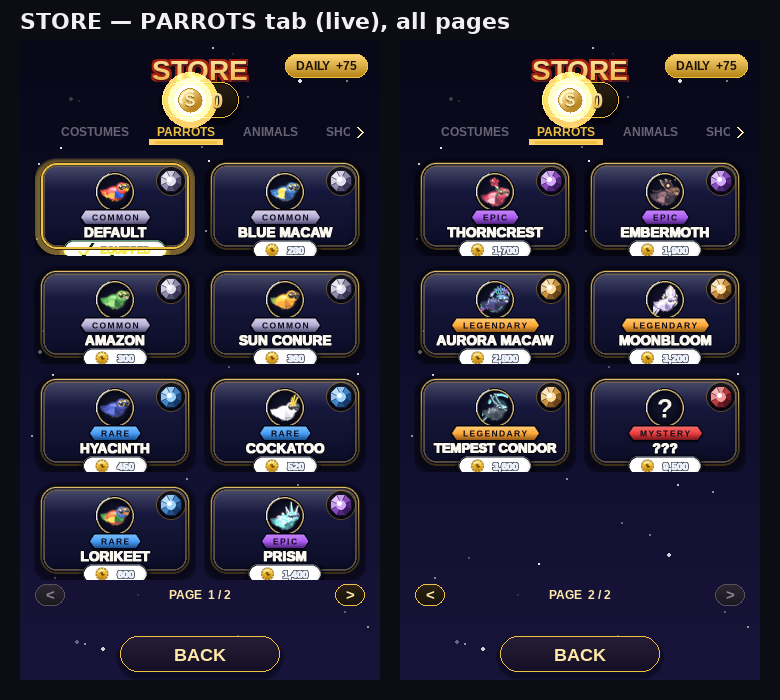
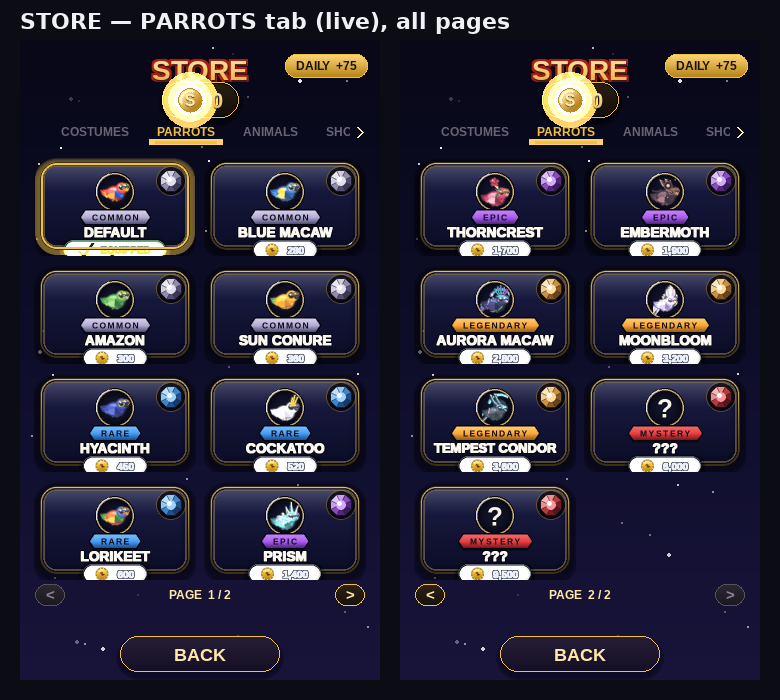
Integrate BINKY into store as a secret parrot skin
Ships the chosen baby-parrot design (design_5, SHIP-READY through the design
loop incl. the diaper add-on) into the live store:
- skin_binky / "BINKY" — secret tier, 6000, masked ??? until bought
- Powder-blue cartoon-baby Pip: pink punched-hole pacifier hero, big-baby
  eye-domes under the aviators, cream bib, chunky cream diaper, spit-curl

Builder ported self-contained into store_skins.py (helpers namespaced _bb_),
registered in BUILDERS; catalog entry placed in the PARROTS secret band. All
61 tests green; renders through the live parrot.get_skin_frame path. Store
figure regenerated — page 2 now shows BINKY + CHROME both masked as MYSTERY.

Claude-Session: https://claude.ai/code/session_01N1LM2Bgn9T6hStkWEbBYjz

Changed region(s): [[0.5231, 0.69, 0.7385, 0.84]]

diff --git a/game/store_skins.py b/game/store_skins.py
@@ -2703,6 +2703,161 @@ get_tempest_condor = _tempest_getter()
 
 
 # ─────────────────────────────────────────────────────────────────────────────
+# BINKY (secret) — the pacifier baby: a powder-blue cartoon-infant Pip. One
+# bright-pink hero (a punched-hole pacifier ring at the beak), a light baby
+# face with big-baby eye-domes under the aviators, a quiet cream bib, and a
+# chunky cream diaper wrapped round the lower body. Same sprite size — baby
+# read is overlay + pastel palette, never a shrink. Matte pigment, no glow.
+# The pink budget is spent entirely on the pacifier so it stays the sole focal.
+# ─────────────────────────────────────────────────────────────────────────────
+_BB_BLUE_HI = (202, 230, 239)
+_BB_TEAL    = (127, 180, 194)
+_BB_TEAL_D  = (96, 150, 165)
+_BB_HOLE    = (42, 53, 64)
+_BB_BELLY   = (228, 243, 247)
+_BB_PINK    = (229, 138, 160)
+_BB_PINK_HI = (246, 184, 200)
+_BB_PINK_LT = (255, 222, 232)
+_BB_PINK_D  = (196, 110, 134)
+_BB_CREAM   = (251, 244, 218)
+_BB_CREAM_D = (224, 214, 178)
+_BB_DIAP    = (251, 244, 218)
+_BB_DIAP_HI = (255, 255, 255)
+_BB_DIAP_SH = (201, 217, 222)
+_BB_DIAP_LN = (171, 162, 130)
+_BB_TAN     = (201, 168, 106)
+_BB_TAN_D   = (160, 130, 76)
+_BB_WHITE   = (250, 252, 253)
+_BB_INK     = (40, 56, 70)
+
+P_BINKY = _pal(
+    tail=[(118, 168, 182), (150, 196, 208), (178, 214, 226), (206, 232, 240)],
+    tail_line=_BB_TEAL_D,
+    body_shadow=(150, 196, 208),
+    body_main=_BB_BLUE_HI,
+    body_chest=(214, 236, 243),
+    body_belly=_BB_BELLY,
+    sheen=(255, 255, 255, 120),
+    wing_main=(176, 212, 224),
+    wing_dark=(120, 172, 188),
+    wing_tip=(220, 238, 244),
+    wing_secondary=None,
+    wing_highlight=(236, 247, 250),
+    head_shadow=_BB_TEAL,
+    head_main=_BB_BLUE_HI,
+    head_cheek=(216, 237, 244),
+    head_crown=(196, 226, 235),
+    lens_frame=(92, 124, 140),
+    lens_body=(44, 66, 80),
+    lens_tint=(168, 214, 230, 130),
+    lens_glint=(248, 252, 254),
+    beak_main=(214, 200, 168),
+    beak_dark=(150, 132, 102),
+    beak_gloss=(248, 244, 228),
+    foot=(150, 132, 102),
+)
+
+
+def _bb_cowlick(surf):
+    # A single thin tan spit-curl off the crown — a 2px hook that never blobs.
+    curl = [
+        (HX - 1, CROWN_Y + 1), (HX, CROWN_Y - 4), (HX + 3, CROWN_Y - 6),
+        (HX + 5, CROWN_Y - 4), (HX + 4, CROWN_Y - 1),
+    ]
+    pygame.draw.lines(surf, _BB_TAN_D, False, curl, 3)
+    pygame.draw.lines(surf, _BB_TAN, False, curl, 2)
+    pygame.draw.line(surf, _BB_PINK_LT, curl[1], curl[2], 1)
+
+
+def _bb_eye_domes(surf):
+    # Two big-baby white catch-light domes under the aviators + 1px ink pupils —
+    # the neoteny tell, popping now the head is held light.
+    for ex, ey in ((HX - 4, HY + 6), (HX + 6, HY + 5)):
+        pygame.draw.circle(surf, _BB_TEAL, (ex - 1, ey), 3)
+        pygame.draw.circle(surf, _BB_WHITE, (ex - 1, ey), 2)
+        pygame.draw.circle(surf, _BB_INK, (ex, ey), 1)
+
+
+def _bb_bib(surf):
+    # A quiet cream 2-scallop crescent on the upper chest — cream (not pink) so it
+    # never competes for the pink-focal slot; nudged up so a powder-blue gap stays
+    # between it and the diaper (the two cream cloths must not merge).
+    cy = 49
+    scallops = [(28, cy + 2), (35, cy + 2)]
+    for sx, sy in scallops:
+        pygame.draw.circle(surf, _BB_CREAM_D, (sx, sy + 1), 4)
+    for sx, sy in scallops:
+        pygame.draw.circle(surf, _BB_CREAM, (sx, sy), 4)
+    pygame.draw.line(surf, _BB_CREAM, (27, cy - 2), (36, cy - 2), 3)
+    pygame.draw.line(surf, _BB_CREAM_D, (27, cy + 1), (36, cy + 1), 1)
+
+
+def _bb_diaper(surf):
+    # The chunky cream nappy wrapped round the lower belly + rear — the bigger
+    # lower cream mass. A padded bottom that bulges past the body line sells the
+    # silhouette; a waistband with hip curve-ups, a lit white fold edge, a seam,
+    # and a tab+pin sell "fastened cloth". Cream-only so the pacifier keeps the
+    # whole pink budget; the sole pink is a sub-pixel pin head.
+    cy = 64
+    pygame.draw.ellipse(surf, _BB_DIAP_LN, (16, cy + 1, 30, 13))
+    pygame.draw.ellipse(surf, _BB_DIAP_SH, (17, cy + 2, 28, 12))
+    pygame.draw.ellipse(surf, _BB_DIAP, (17, cy + 1, 28, 10))
+    pygame.draw.line(surf, _BB_DIAP_LN, (16, cy), (45, cy), 7)
+    pygame.draw.line(surf, _BB_DIAP, (16, cy), (45, cy), 5)
+    pygame.draw.line(surf, _BB_DIAP_LN, (16, cy), (15, cy - 4), 4)
+    pygame.draw.line(surf, _BB_DIAP, (16, cy), (15, cy - 4), 3)
+    pygame.draw.line(surf, _BB_DIAP_LN, (45, cy), (46, cy - 4), 4)
+    pygame.draw.line(surf, _BB_DIAP, (45, cy), (46, cy - 4), 3)
+    pygame.draw.line(surf, _BB_DIAP_HI, (18, cy - 3), (43, cy - 3), 1)
+    pygame.draw.line(surf, _BB_DIAP_LN, (31, cy + 1), (31, cy + 8), 1)
+    pygame.draw.line(surf, _BB_DIAP_SH, (30, cy + 2), (30, cy + 7), 1)
+    pygame.draw.rect(surf, _BB_DIAP_LN, (21, cy - 2, 5, 5))
+    pygame.draw.rect(surf, _BB_DIAP_HI, (22, cy - 1, 3, 3))
+    pygame.draw.circle(surf, _BB_PINK, (23, cy + 1), 1)
+
+
+def _bb_pacifier(surf):
+    # The ONE hero — a pacifier at the beak base: a hollow pink ring with a hard
+    # dark hole punched through (so it reads as a ring, not a dot) ahead of a
+    # 2-value button dome. The only bright pink on the bird.
+    bx, by = HX - 7, HY + 5
+    pygame.draw.circle(surf, _BB_TEAL_D, (bx, by + 1), 6)
+    pygame.draw.circle(surf, _BB_PINK_D, (bx, by), 5)
+    pygame.draw.circle(surf, _BB_PINK, (bx, by), 4)
+    pygame.draw.circle(surf, _BB_PINK_HI, (bx - 1, by - 1), 3)
+    pygame.draw.circle(surf, _BB_PINK_LT, (bx - 1, by - 2), 1)
+    rx, ry = bx - 7, by
+    pygame.draw.circle(surf, _BB_TEAL_D, (rx, ry), 5)
+    pygame.draw.circle(surf, _BB_PINK, (rx, ry), 4)
+    pygame.draw.circle(surf, _BB_PINK_HI, (rx - 1, ry - 1), 1)
+    pygame.draw.circle(surf, _BB_HOLE, (rx, ry), 2)
+    pygame.draw.line(surf, _BB_PINK, (bx - 4, by), (rx + 3, ry), 3)
+    pygame.draw.line(surf, _BB_TEAL_D, (bx - 4, by + 1), (rx + 3, ry + 1), 1)
+
+
+def _bb_rimlight(surf):
+    # A 1px darker-teal rim along the lower-left silhouette — navy-sky separation
+    # insurance so the pale powder-blue body never voids into night sky.
+    pygame.draw.lines(surf, _BB_TEAL_D, False,
+                      [(20, 62), (26, 68), (34, 70), (42, 68)], 1)
+
+
+def _paint_binky(surf, _a):
+    _bb_rimlight(surf)
+    _bb_bib(surf)
+    _bb_diaper(surf)
+    _bb_cowlick(surf)
+    _bb_eye_domes(surf)
+    pygame.draw.circle(surf, _BB_PINK_LT, (HX + 9, HY + 7), 1)   # 1px cheek blush
+    _bb_pacifier(surf)                                           # hero, painted last
+
+
+get_binky_parrot = _make_skin(
+    _paint_binky,
+    base_fn=lambda a: _build_parrot_with_palette(a, P_BINKY))
+
+
+# ─────────────────────────────────────────────────────────────────────────────
 # Production registry: catalog id -> getter. Consulted by
 # parrot.get_skin_frame (which checks this first, so the three redraws here
 # override the power-up-sprite mappings the base parrot keeps for buff use).
@@ -2738,4 +2893,6 @@ BUILDERS = {
     # Wave 2 replacements (epic moth, legendary monochrome squall).
     "skin_embermoth": get_embermoth_macaw,
     "skin_tempest":   get_tempest_condor,
+    # Baby parrot (secret pacifier-and-diaper chick).
+    "skin_binky":     get_binky_parrot,
 }

diff --git a/game/store_catalog.py b/game/store_catalog.py
@@ -65,6 +65,7 @@ CATALOG: dict[str, dict] = {
     "skin_moonbloom": {"name": "MOONBLOOM",    "cost": 3200, "kind": "skin", "group": "parrot"},
     "skin_tempest":   {"name": "TEMPEST CONDOR", "cost": 3600, "kind": "skin", "group": "parrot"},
     # SECRET tier — masked as ??? in the store until bought (price still shown).
+    "skin_binky":     {"name": "BINKY",       "cost": 6000, "kind": "skin", "group": "parrot", "secret": True},
     "skin_chrome":    {"name": "CHROME MACAW", "cost": 9500, "kind": "skin", "group": "parrot", "secret": True},
 
     # ── ANIMALS (from-scratch creatures) ──────────────────────────────────────
